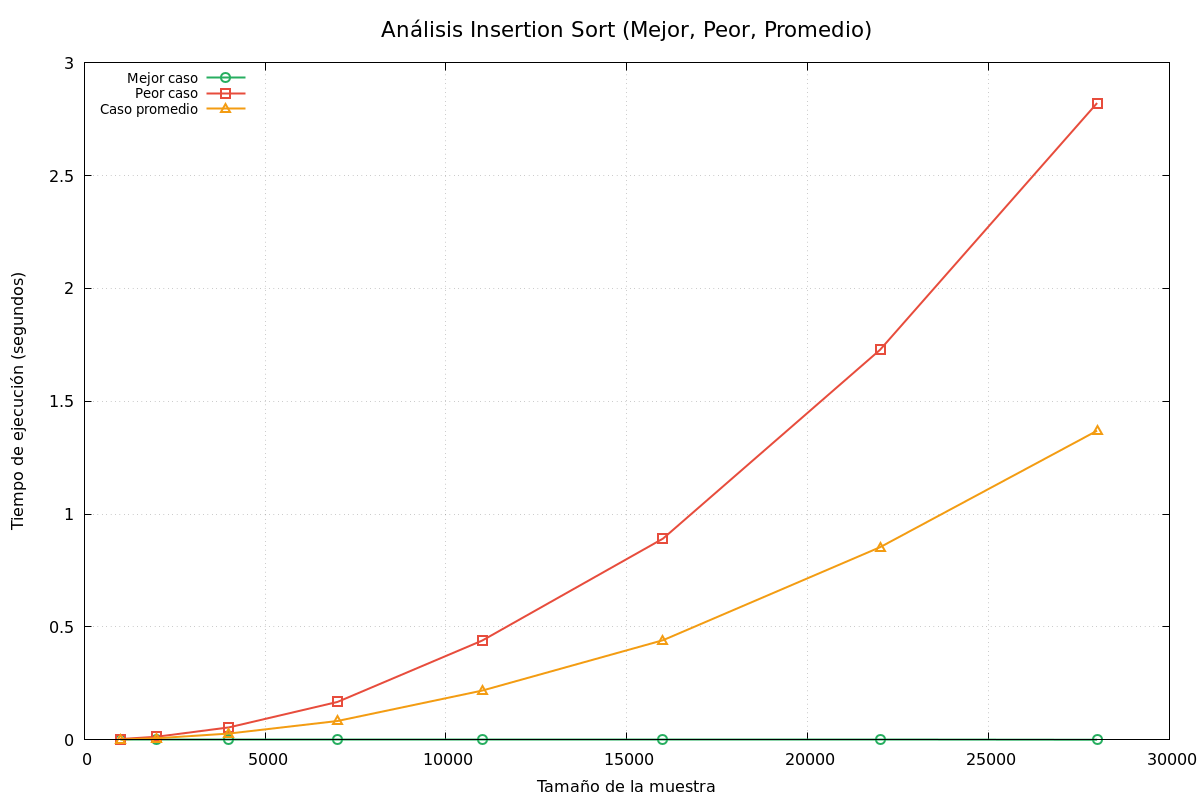
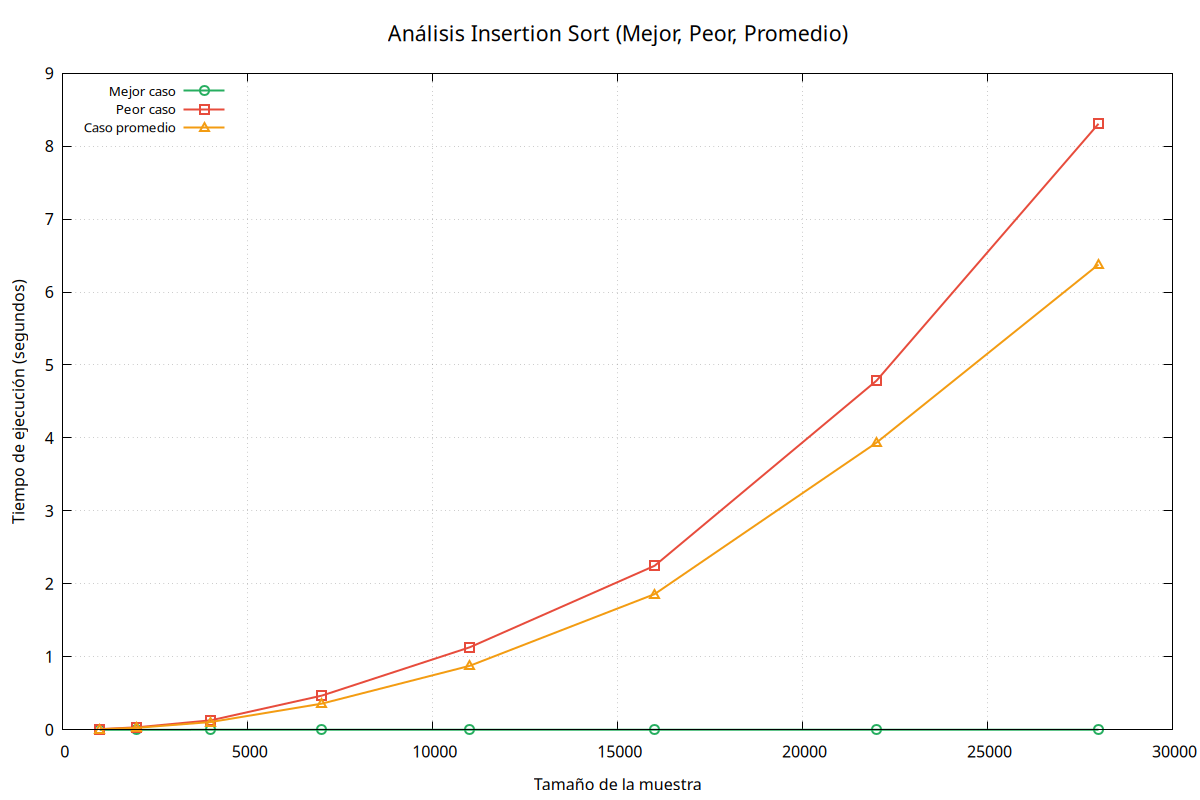
asdksa

diff --git a/src/experimentos.c b/src/experimentos.c
@@ -18,12 +18,18 @@ void ExperimentoOrdenamiento(AlgoritmoOrdenamiento algoritmo, Comparador cmp, do
     end_t = clock();
     peor_caso_t = ((double)(end_t - start_t)) / CLOCKS_PER_SEC;
 
-    // Caso promedio: ordenar un arreglo desordenado (mezclar antes de ordenar)
-    FisherYatesShuffle(deportistas, cantItems);
-    start_t = clock();
-    algoritmo(deportistas, cantItems, cmp);
-    end_t = clock();
-    caso_promedio_t = ((double)(end_t - start_t)) / CLOCKS_PER_SEC;
+    // Caso promedio: ordenar un arreglo desordenado (mezclar antes de ordenar) 
+    // Dado que el arreglo es desordenado al azar, vamos a sacar 
+    // el promedio de 5 ejecuciones para tener una mejor estimación del caso promedio
+    
+    for (int i = 0; i < 5; i++) {
+        FisherYatesShuffle(deportistas, cantItems);
+        start_t = clock();
+        algoritmo(deportistas, cantItems, cmp);
+        end_t = clock();
+        caso_promedio_t += ((double)(end_t - start_t)) / CLOCKS_PER_SEC;
+    }
+    caso_promedio_t /= 5.0; // Sacar el promedio dividiendo por la cantidad de ejecuciones
 
     resultados[0] = mejor_caso_t;
     resultados[1] = peor_caso_t;
